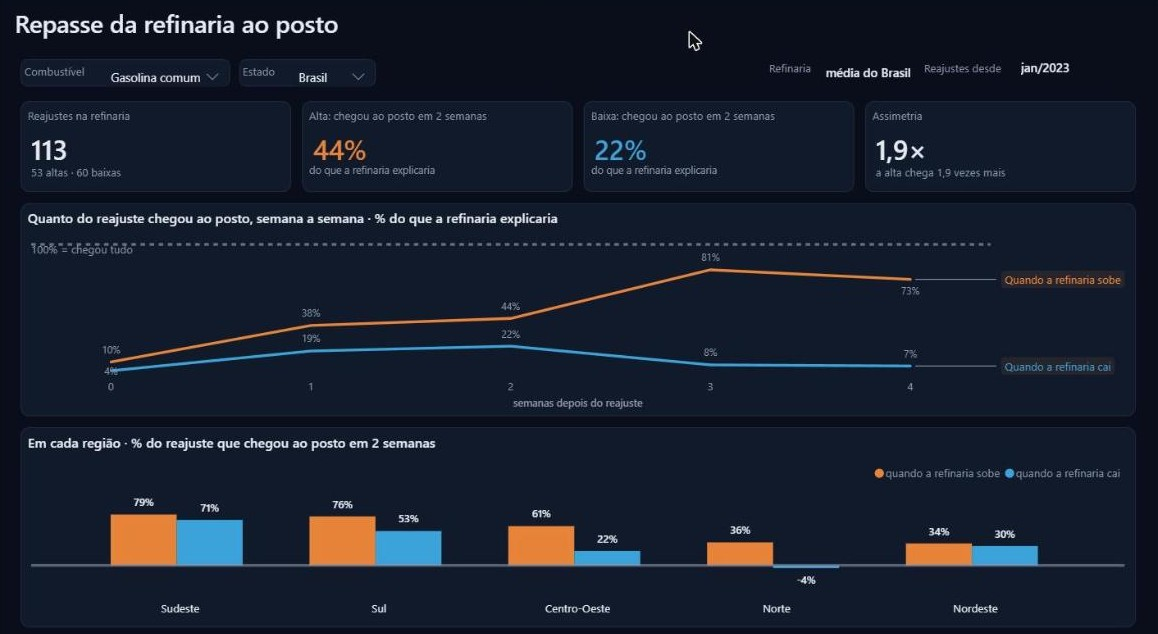
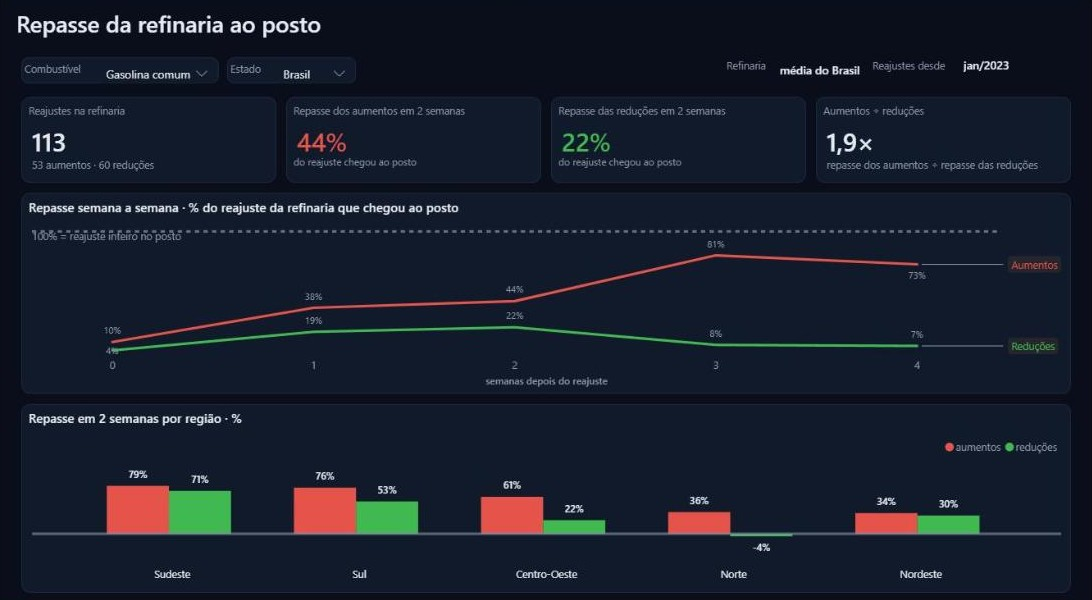
Docs: mesmos nomes da página de repasse

diff --git a/README.md b/README.md
@@ -72,18 +72,18 @@ A segunda página mede, reajuste a reajuste, quanto da mudança na refinaria che
 
 ![Repasse](docs/img/repasse.jpg)
 
-Desde janeiro de 2023, em duas semanas:
+Repasse = quanto do reajuste da refinaria chegou ao posto. Desde janeiro de 2023, em duas semanas:
 
-| | Reajustes na refinaria | Alta: chegou ao posto | Baixa: chegou ao posto |
+| | Reajustes na refinaria | Repasse dos aumentos | Repasse das reduções |
 |---|---|---|---|
-| Gasolina, Brasil | 113 (53 altas, 60 baixas) | **44%** | **22%** |
+| Gasolina, Brasil | 113 (53 aumentos, 60 reduções) | **44%** | **22%** |
 | Diesel S10, Brasil | 125 | **60%** | **45%** |
 | Gasolina, RS | 11 | 75% | 53% |
 | Diesel S10, RS | 18 | 82% | 44% |
 
-- **A alta chega mais rápido que a baixa** nos dois combustíveis e em quase todas as regiões: na gasolina, o dobro (1,9×) no Brasil.
-- **Quatro semanas depois de uma alta da gasolina, 73% já estava no posto; depois de uma baixa, 7%.**
-- A diferença varia por região: no Sudeste, alta e baixa chegam quase iguais (79% e 71%); no Centro-Oeste e no Norte, a baixa quase não aparece.
+- **O aumento chega ao posto mais que a redução** nos dois combustíveis e em quase todas as regiões: na gasolina, 1,9 vez no Brasil.
+- **Quatro semanas depois de um aumento da gasolina, 73% já estava no posto; depois de uma redução, 7%.**
+- A diferença varia por região: no Sudeste, aumento e redução chegam quase iguais (79% e 71%); no Centro-Oeste e no Norte, a redução quase não aparece.
 
 ### Como o repasse é medido
 
@@ -107,7 +107,7 @@ A mesma análise roda para cada município do RS com pelo menos 5 postos pesquis
 Duas páginas, em tema escuro, sem textos de apoio, com filtros de combustível (gasolina comum ou diesel S10) e de estado:
 
 - **Visão geral**: cinco cartões (preço no posto, variação em 4 semanas e em 12 meses, impostos no litro e etanol ÷ gasolina, que vira a variação da refinaria quando o diesel é escolhido), as três partes do preço mês a mês, em linhas separadas, o que mudou em cada parte em 12 meses (com o resultado no posto) e a diferença de cada região para a média do Brasil, com o estado escolhido em destaque.
-- **Repasse**: quantos reajustes houve na refinaria, quanto chegou ao posto em 2 semanas nas altas e nas baixas, a curva semana a semana até 4 semanas e a comparação entre as regiões (e o estado escolhido).
+- **Repasse**: quantos reajustes houve na refinaria, o repasse dos aumentos e das reduções em 2 semanas, o repasse semana a semana até 4 semanas e a comparação entre as regiões (e o estado escolhido).
 
 ## Como rodar
 
@@ -142,7 +142,7 @@ No Fabric:
 - **Cortes de imposto no meio da semana.** Os cortes de 2026 começaram numa quinta (10/09) e num sábado (10/10). Com o imposto da semana inteira, uma semana aparecia com R$ 0,40 a mais de margem; o tributo passou a ser a média dos dias.
 - **A planilha da refinaria traz o imposto cobrado, não o cheio.** A primeira versão descontava a alíquota cheia, e o corte de setembro aparecia como queda da refinaria. A queda de R$ 0,28 quando os tributos foram zerados em outubro mostrou o contrário.
 - **Dados com um mês de atraso.** A série posto a posto sai por mês; o levantamento semanal por estado completa as semanas mais recentes. A última semana de cada mês da série vem incompleta e é substituída pelo levantamento semanal.
-- **Repasse acima de 100% em 2023.** A primeira versão mostrava, no RS, 150% de repasse nas altas: eram as semanas em que o PIS/Cofins voltou a ser cobrado e o posto subiu por causa do imposto, não da refinaria. Esses reajustes saíram do estudo (tabela `config.mudanca_tributo`).
+- **Repasse acima de 100% em 2023.** A primeira versão mostrava, no RS, 150% de repasse nos aumentos: eram as semanas em que o PIS/Cofins voltou a ser cobrado e o posto subiu por causa do imposto, não da refinaria. Esses reajustes saíram do estudo (tabela `config.mudanca_tributo`).
 - **Tabela antiga presa no modelo.** Uma tabela removida da gold continuava como arquivo no modelo gerado e fazia a atualização falhar; o gerador agora apaga arquivos de tabelas que saíram.
 
 ## Limitações

diff --git a/docs/indicadores.md b/docs/indicadores.md
@@ -49,26 +49,26 @@ Preço médio de cada região (média dos postos pesquisados nos estados dela) m
 
 ## Página "Repasse"
 
-Mede quanto de cada reajuste da refinaria chegou ao posto. Exemplos: gasolina comum, Brasil, reajustes desde jan/2023.
+**Repasse** = quanto do reajuste da refinaria chegou ao posto, em %. 100% = o reajuste chegou inteiro. Exemplos: gasolina comum, Brasil, reajustes desde jan/2023.
 
-### Reajustes na refinaria: 113 (53 altas · 60 baixas)
+### Reajustes na refinaria: 113 (53 aumentos · 60 reduções)
 Semanas em que o preço da refinaria da região (sem tributos federais, mediana de 3 semanas) variou 2% ou mais; semanas seguidas no mesmo sentido contam como um reajuste. Para o Brasil, soma dos reajustes das cinco regiões. Ficam de fora os reajustes perto de uma mudança de tributo federal (tabela `config.mudanca_tributo`).
 
-### Alta / Baixa: chegou ao posto em 2 semanas: 44% / 22%
-Repasse observado ÷ repasse esperado, duas semanas depois do reajuste:
-- esperado = variação na refinaria × parcela fóssil do litro (68% na gasolina E32);
-- observado = preço médio do posto duas semanas depois − o da semana anterior ao reajuste.
+### Repasse dos aumentos / das reduções em 2 semanas: 44% / 22%
+Variação no posto ÷ variação esperada, duas semanas depois do reajuste:
+- variação esperada = variação na refinaria × parcela fóssil do litro (68% na gasolina E32);
+- variação no posto = preço médio do posto duas semanas depois − o da semana anterior ao reajuste.
 
-Para o Brasil e as regiões, soma do observado de todos os estados ÷ soma do esperado. 100% = o reajuste chegou inteiro.
+Para o Brasil e as regiões, soma das variações no posto de todos os estados ÷ soma das esperadas.
 
-### Assimetria: 1,9×
-Alta em 2 semanas ÷ baixa em 2 semanas: 44% ÷ 22%.
+### Aumentos ÷ reduções: 1,9×
+Repasse dos aumentos ÷ repasse das reduções, em 2 semanas: 44% ÷ 22%.
 
-### Quanto do reajuste chegou ao posto, semana a semana
-A mesma conta para 0 a 4 semanas depois do reajuste, uma linha para as altas e outra para as baixas. Gasolina, Brasil: altas 10%, 38%, 44%, 81%, 73%; baixas 4%, 19%, 22%, 8%, 7%.
+### Repasse semana a semana
+O mesmo repasse de 0 a 4 semanas depois do reajuste, uma linha para os aumentos e outra para as reduções. Gasolina, Brasil: aumentos 10%, 38%, 44%, 81%, 73%; reduções 4%, 19%, 22%, 8%, 7%.
 
-### Em cada região
-O repasse em 2 semanas de cada região (os estados dela juntos) e, com um estado escolhido, o dele ao lado. Gasolina: Sudeste 79% / 71%, Sul 76% / 53%, Centro-Oeste 61% / 22%, Norte 36% / −4%, Nordeste 34% / 30%.
+### Repasse em 2 semanas por região
+O repasse de cada região (os estados dela juntos) e, com um estado escolhido, o dele ao lado. Gasolina (aumentos / reduções): Sudeste 79% / 71%, Sul 76% / 53%, Centro-Oeste 61% / 22%, Norte 36% / −4%, Nordeste 34% / 30%.
 
 ## Método e conferência
 

diff --git a/README.en.md b/README.en.md
@@ -72,16 +72,16 @@ The second page measures, price change by price change, how much of a refinery c
 
 ![Pass-through](docs/img/repasse.jpg)
 
-Since January 2023, after two weeks:
+Pass-through = how much of the refinery price change reached the pump. Since January 2023, after two weeks:
 
-| | Refinery price changes | Increase: reached the pump | Cut: reached the pump |
+| | Refinery price changes | Pass-through of increases | Pass-through of cuts |
 |---|---|---|---|
 | Gasoline, Brazil | 113 (53 increases, 60 cuts) | **44%** | **22%** |
 | S10 diesel, Brazil | 125 | **60%** | **45%** |
 | Gasoline, RS | 11 | 75% | 53% |
 | S10 diesel, RS | 18 | 82% | 44% |
 
-- **Increases reach the pump faster than cuts** for both fuels and in almost every region: for gasoline, twice as much (1.9×) in Brazil.
+- **Increases reach the pump more than cuts** for both fuels and in almost every region: for gasoline, 1.9 times as much in Brazil.
 - **Four weeks after a gasoline increase, 73% was already at the pump; after a cut, 7%.**
 - It varies by region: in the Southeast, increases and cuts arrive almost equally (79% and 71%); in the Center-West and North, cuts barely show up.
 
@@ -107,7 +107,7 @@ The same analysis runs for each RS municipality with at least 5 surveyed station
 Two pages, dark theme, no explanatory text, with filters for fuel (regular gasoline or S10 diesel) and state:
 
 - **Overview**: five cards (pump price, change over 4 weeks and 12 months, taxes per liter and ethanol ÷ gasoline, which becomes the refinery change when diesel is selected), the three parts of the price month by month, as separate lines, what changed in each part over 12 months (ending with the pump price) and each region's difference from the Brazil average, with the selected state highlighted.
-- **Pass-through**: how many refinery price changes there were, how much reached the pump within 2 weeks for increases and cuts, the week-by-week curve up to 4 weeks, and the comparison across regions (and the selected state).
+- **Pass-through**: how many refinery price changes there were, the pass-through of increases and cuts within 2 weeks, the week-by-week pass-through up to 4 weeks, and the comparison across regions (and the selected state).
 
 ## How to run
 
